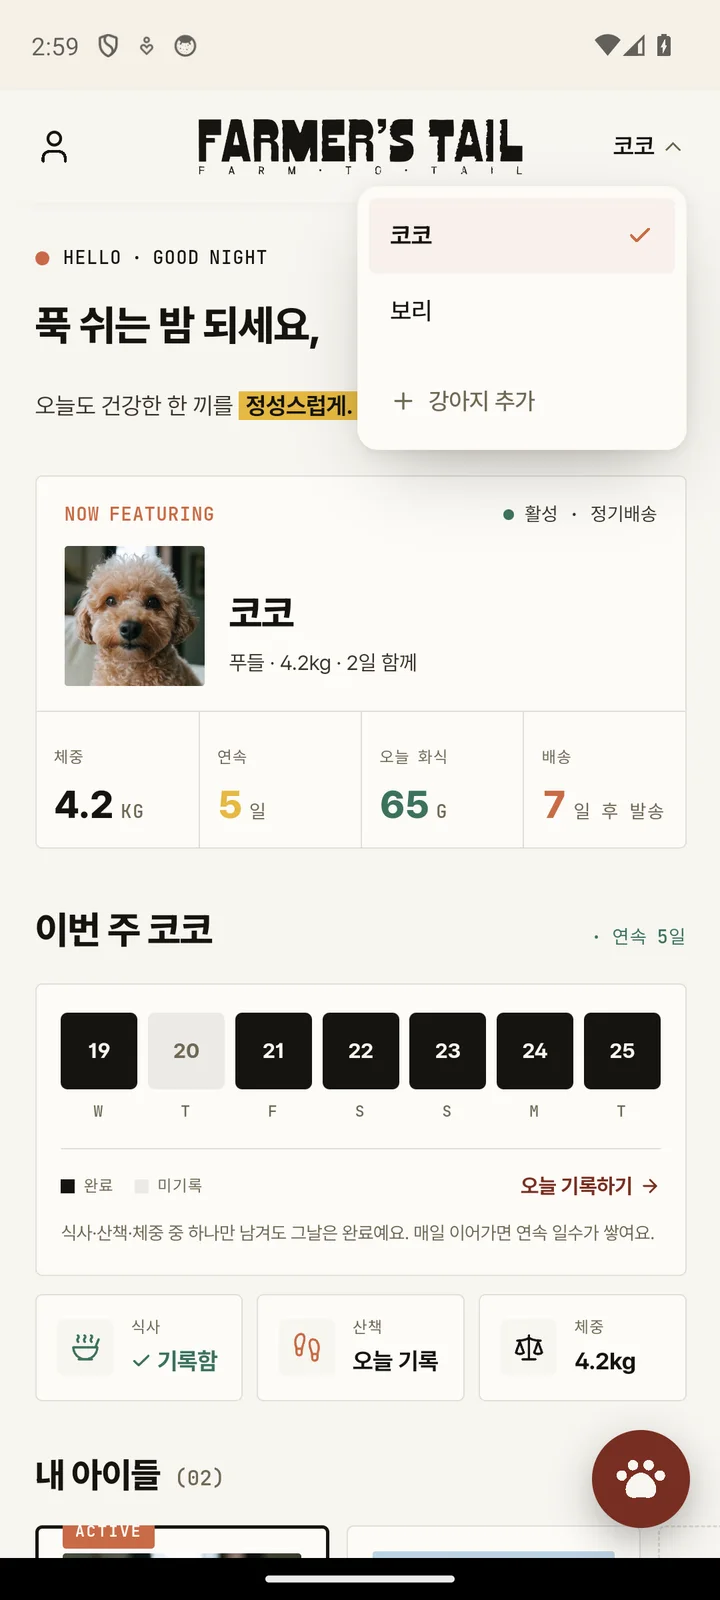
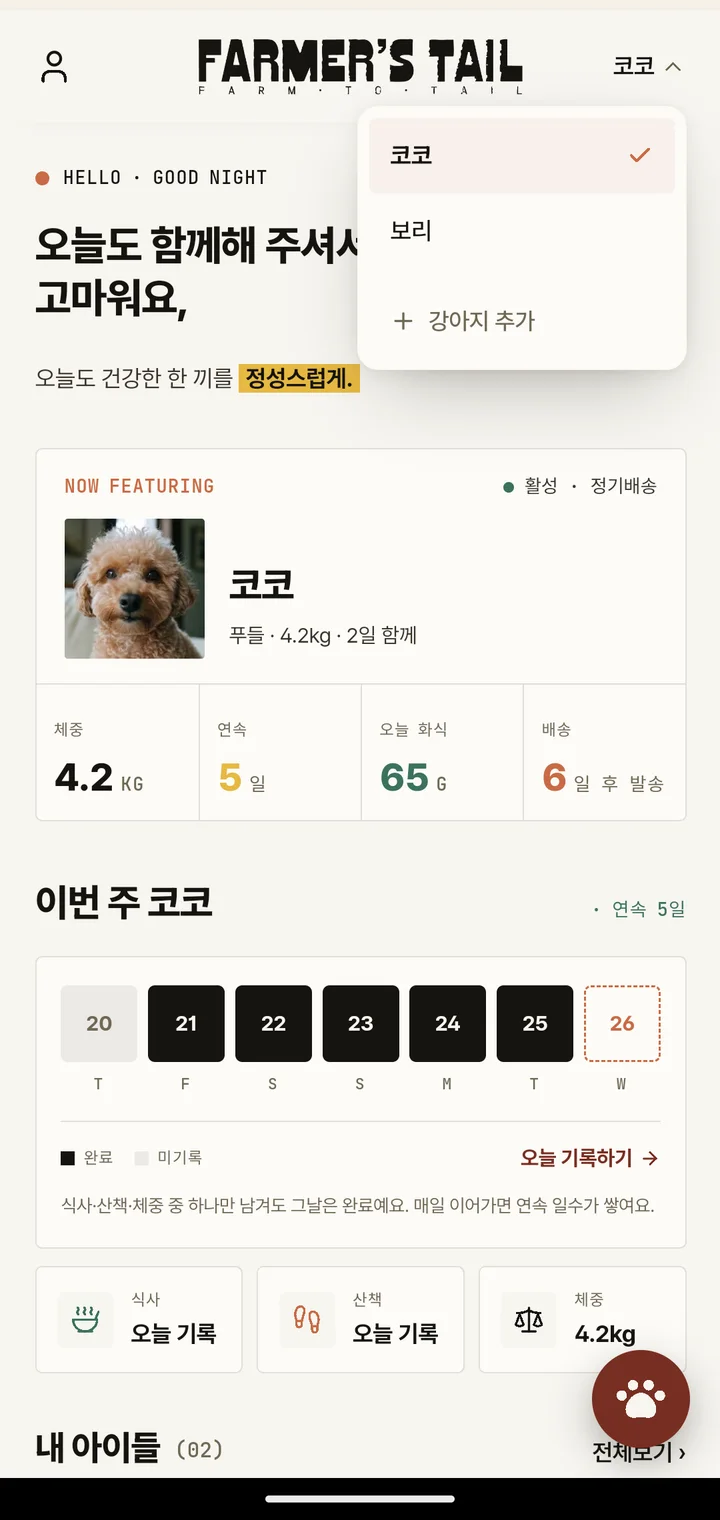
온보딩 마무리 — 상태바 제거, 배지 위치 실측 보정, 옛 자산 정리
- 스크린샷에서 안드로이드 상태바(시계·와이파이·배터리) 120px 크롭 (720x1520)
- 배지 top 을 가리키려는 UI 의 실제 세로 위치로 맞춤 (강아지 얼굴 가리던 것)
- 구독 슬라이드: 카드 아래 빈 공간을 파우치 사진이 채우게 배치
- 흰 베젤이 흰 패널에 묻히지 않게 테두리 실선 강화
- 아무 데서도 참조하지 않는 옛 온보딩 jpg 4장 삭제

diff --git a/components/Onboarding.tsx b/components/Onboarding.tsx
@@ -44,8 +44,10 @@ const SLIDES: Slide[] = [
     punch: '앱 하나에 모여요',
     note: '오늘 급여량·기록·다음 배송일까지 한 화면에서 봐요',
     badges: [
-      { kind: 'chip', text: '여러 마리 전환', tone: 'plain', side: 'right', top: '4%' },
-      { kind: 'chip', text: '오늘 급여량', tone: 'accent', side: 'left', top: '38%' },
+      // top 값은 **화면(스크린샷) 높이 기준 비율**이다. 가리키려는 UI 가 스크린샷
+      // 세로 어디쯤인지 재서 맞춘다 — 감으로 잡으면 강아지 얼굴을 덮는다(실제로 덮었다).
+      { kind: 'chip', text: '여러 마리 전환', tone: 'plain', side: 'right', top: '8%' },
+      { kind: 'chip', text: '오늘 급여량', tone: 'accent', side: 'left', top: '45%' },
     ],
   },
   {
@@ -54,8 +56,8 @@ const SLIDES: Slide[] = [
     punch: '맞춤 레시피가 나와요',
     note: '필요한 열량과 하루 급여량까지 그램 단위로 계산해요',
     badges: [
-      { kind: 'chip', text: '그램 단위 급여량', tone: 'accent', side: 'left', top: '5%' },
-      { kind: 'photo', src: '/bowl/chicken.webp', side: 'right', top: '26%' },
+      { kind: 'photo', src: '/bowl/chicken.webp', side: 'right', top: '18%' },
+      { kind: 'chip', text: '그램 단위 급여량', tone: 'accent', side: 'left', top: '44%' },
     ],
   },
   {
@@ -64,8 +66,8 @@ const SLIDES: Slide[] = [
     punch: '종이 한 장이면 끝나요',
     note: '12개월 체중 추이·식이·분석을 A4 한 장으로 정리해 드려요',
     badges: [
-      { kind: 'chip', text: 'PDF 저장', tone: 'plain', side: 'right', top: '5%' },
-      { kind: 'chip', text: '12개월 체중 추이', tone: 'accent', side: 'left', top: '42%' },
+      { kind: 'chip', text: 'PDF 저장', tone: 'plain', side: 'right', top: '8%' },
+      { kind: 'chip', text: '12개월 체중 추이', tone: 'accent', side: 'left', top: '48%' },
     ],
   },
   {
@@ -75,8 +77,9 @@ const SLIDES: Slide[] = [
     note: '화식 비율·배송일 변경, 일시정지와 해지 모두 앱에서 해요',
     badges: [
       // 규칙31 — "언제든 해지/일시정지"는 과약속. 마감을 명시하거나 중립 표기.
-      { kind: 'chip', text: '2주 미루기·일시정지', tone: 'accent', side: 'left', top: '5%' },
-      { kind: 'photo', src: '/pkg/pork.webp', side: 'right', top: '30%' },
+      { kind: 'chip', text: '2주 미루기·일시정지', tone: 'accent', side: 'left', top: '42%' },
+      // 구독 카드 아래가 비어 보여서, 그 자리를 파우치 사진이 채우게 내렸다.
+      { kind: 'photo', src: '/pkg/pork.webp', side: 'right', top: '62%' },
     ],
   },
 ]
@@ -299,8 +302,13 @@ const btnPrimary: React.CSSProperties = {
  */
 const BEZEL = 7
 const SCREEN_RADIUS = 35
-/** 스크린샷 원본 비율 — `public/onboarding/app-*.webp` 는 전부 720×1600. */
-const SHOT_ASPECT = '720 / 1600'
+/**
+ * 스크린샷 비율 — `app-*.webp` 는 전부 720×1520.
+ * 원본 1080×2400 에서 **안드로이드 상태바(시계·와이파이·배터리) 위 120px 을
+ * 잘라낸** 크기다(사장님 지시). 자산을 다시 만들 때 크롭 값을 바꾸면 이 비율도
+ * 같이 고쳐야 한다 — 어긋나면 object-fit:cover 가 좌우를 잘라 먹는다.
+ */
+const SHOT_ASPECT = '9 / 19'
 
 /**
  * 기기는 **CSS 로 그린다**(생성 목업 사진 폐기, 2026-08-26 사장님 지시).
@@ -338,7 +346,8 @@ function PhoneStage({ slide, eager }: { slide: Slide; eager: boolean }) {
             borderRadius: SCREEN_RADIUS,
             overflow: 'hidden',
             background: '#F4EFE7',
-            boxShadow: `0 0 0 ${BEZEL}px #FFFFFF, 0 0 0 ${BEZEL + 1}px rgba(60,40,26,0.10), 0 26px 48px -22px rgba(60,40,26,0.55)`,
+            // 흰 베젤이 흰 패널에 묻히지 않도록 테두리 실선을 또렷하게 준다.
+            boxShadow: `0 0 0 ${BEZEL}px #FFFFFF, 0 0 0 ${BEZEL + 1}px rgba(60,40,26,0.20), 0 22px 42px -18px rgba(60,40,26,0.5), 0 4px 10px -4px rgba(60,40,26,0.18)`,
           }}
         >
           {/* ★loading="lazy" 금지 (실측): 안드로이드 WebView 에서 가로 캐러셀의
